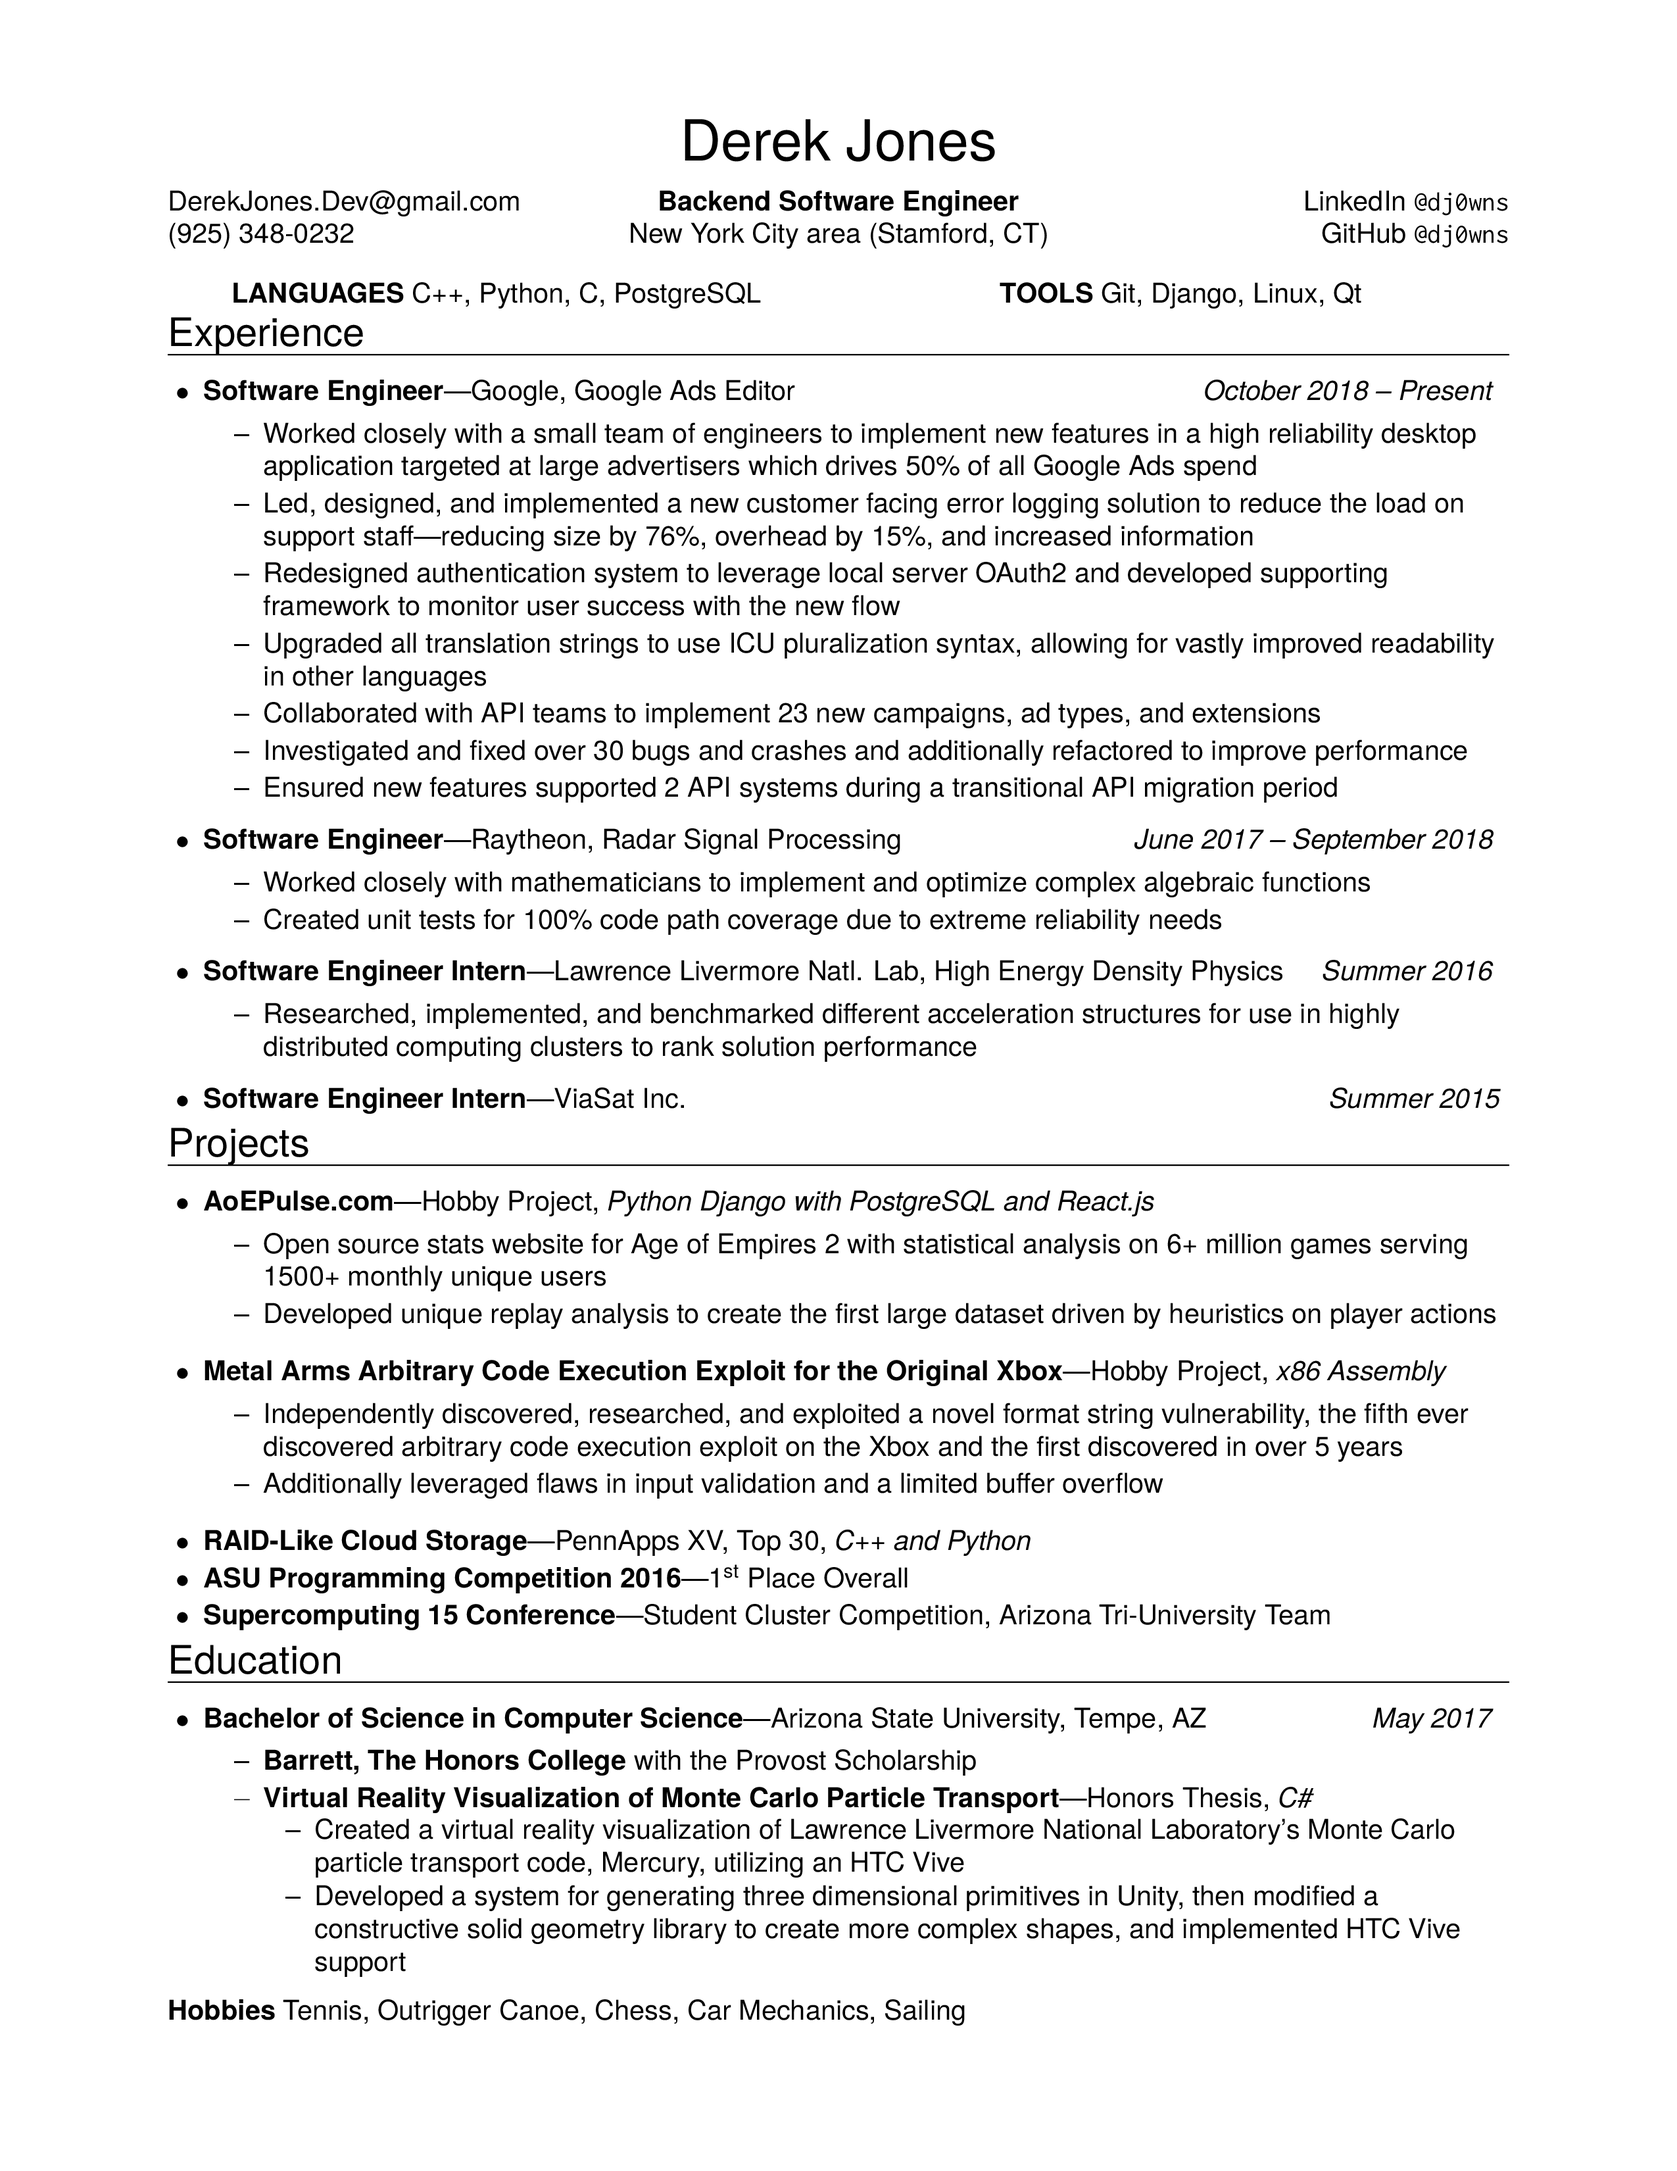
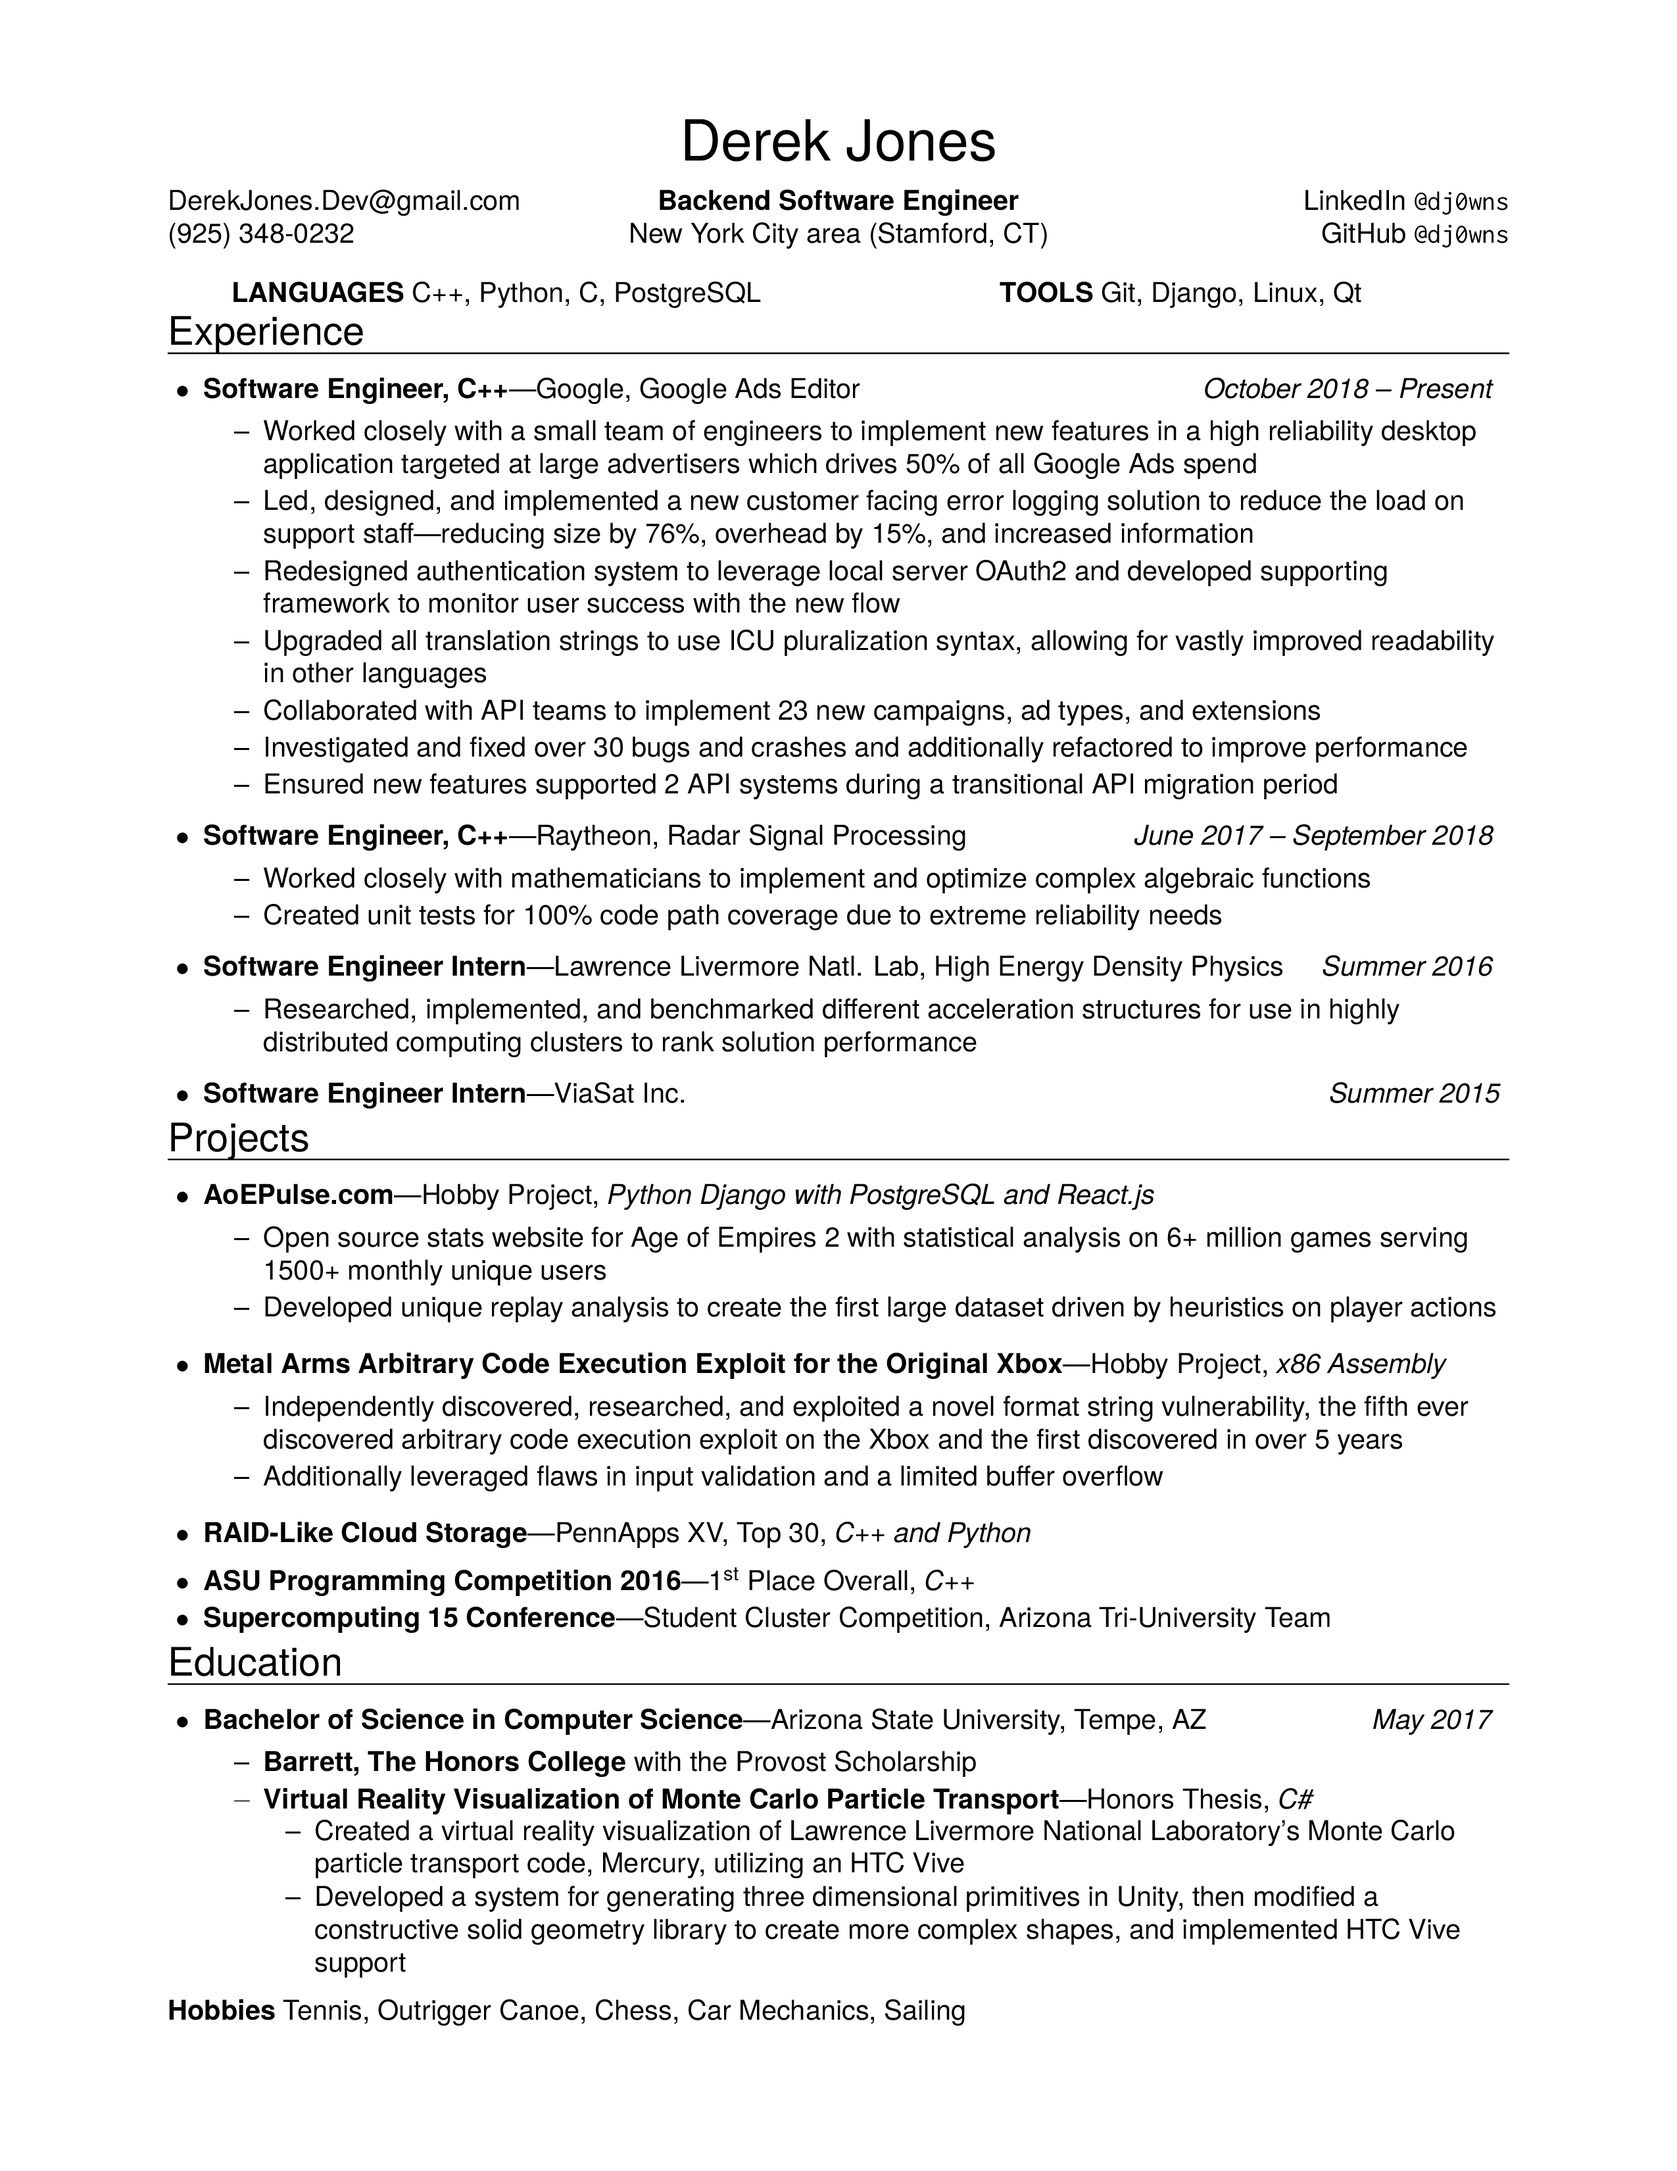
Added dev languages

diff --git a/src/resume.tex b/src/resume.tex
@@ -220,7 +220,7 @@
 
 %%%%%%%%%%%%%%%%%%%%%%%%
 \begin{ressection}{Experience}
-  \begin{ressubsecline}{Software Engineer}{Google, Google Ads Editor}{October 2018 -- Present}
+  \begin{ressubsecline}{Software Engineer, C++}{Google, Google Ads Editor}{October 2018 -- Present}
     % Half the ad spend goes through our application
     \ressubitem{Worked closely with a small team of engineers to implement new features in a high reliability desktop application targeted at large advertisers which drives 50\% of all Google Ads spend}
     % Editor Logging Project
@@ -236,7 +236,7 @@
     % API Migration
     \ressubitem{Ensured new features supported 2 API systems during a transitional API migration period}
   \end{ressubsecline}
-  \begin{ressubsecline}{Software Engineer}{Raytheon, Radar Signal Processing}{June 2017 -- September 2018}
+  \begin{ressubsecline}{Software Engineer, C++}{Raytheon, Radar Signal Processing}{June 2017 -- September 2018}
     \ressubitem{Worked closely with mathematicians to implement and optimize complex algebraic functions}
     \ressubitem{Created unit tests for 100\% code path coverage due to extreme reliability needs}
   \end{ressubsecline}
@@ -259,7 +259,7 @@
     \ressubitem{Additionally leveraged flaws in input validation and a limited buffer overflow}
   \end{ressubseclinenodate}
   \resbigitemlinenodate{RAID-Like Cloud Storage}{PennApps XV, Top 30}{C++ and Python}
-  \resmeditem{ASU Programming Competition 2016}{1\textsuperscript{st} Place Overall}
+  \resbigitemlinenodate{ASU Programming Competition 2016}{1\textsuperscript{st} Place Overall}{C++}
   \resmeditem{Supercomputing 15 Conference}{Student Cluster Competition,}{Arizona Tri-University Team}
 \end{ressection}
 
